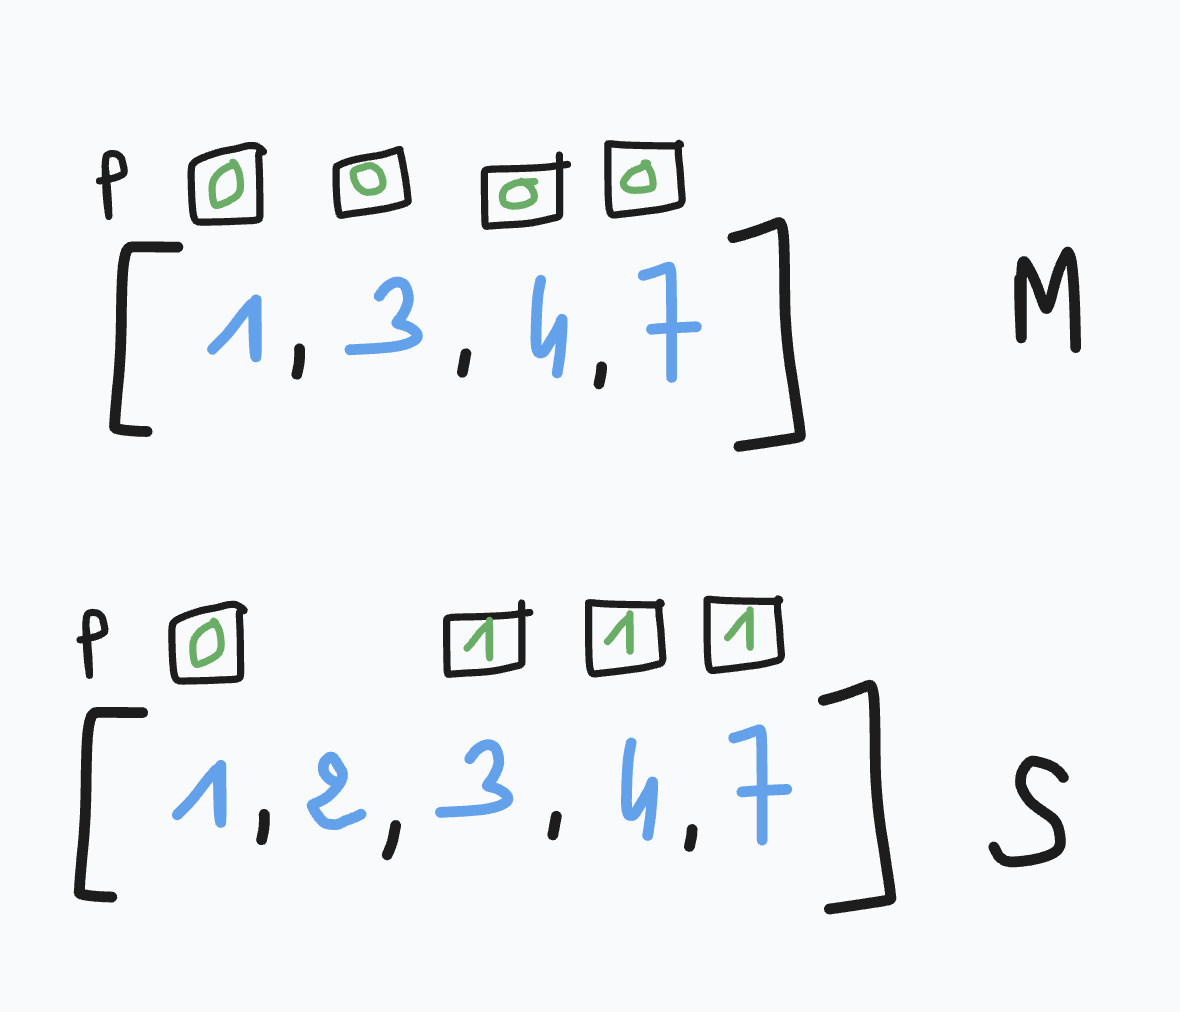
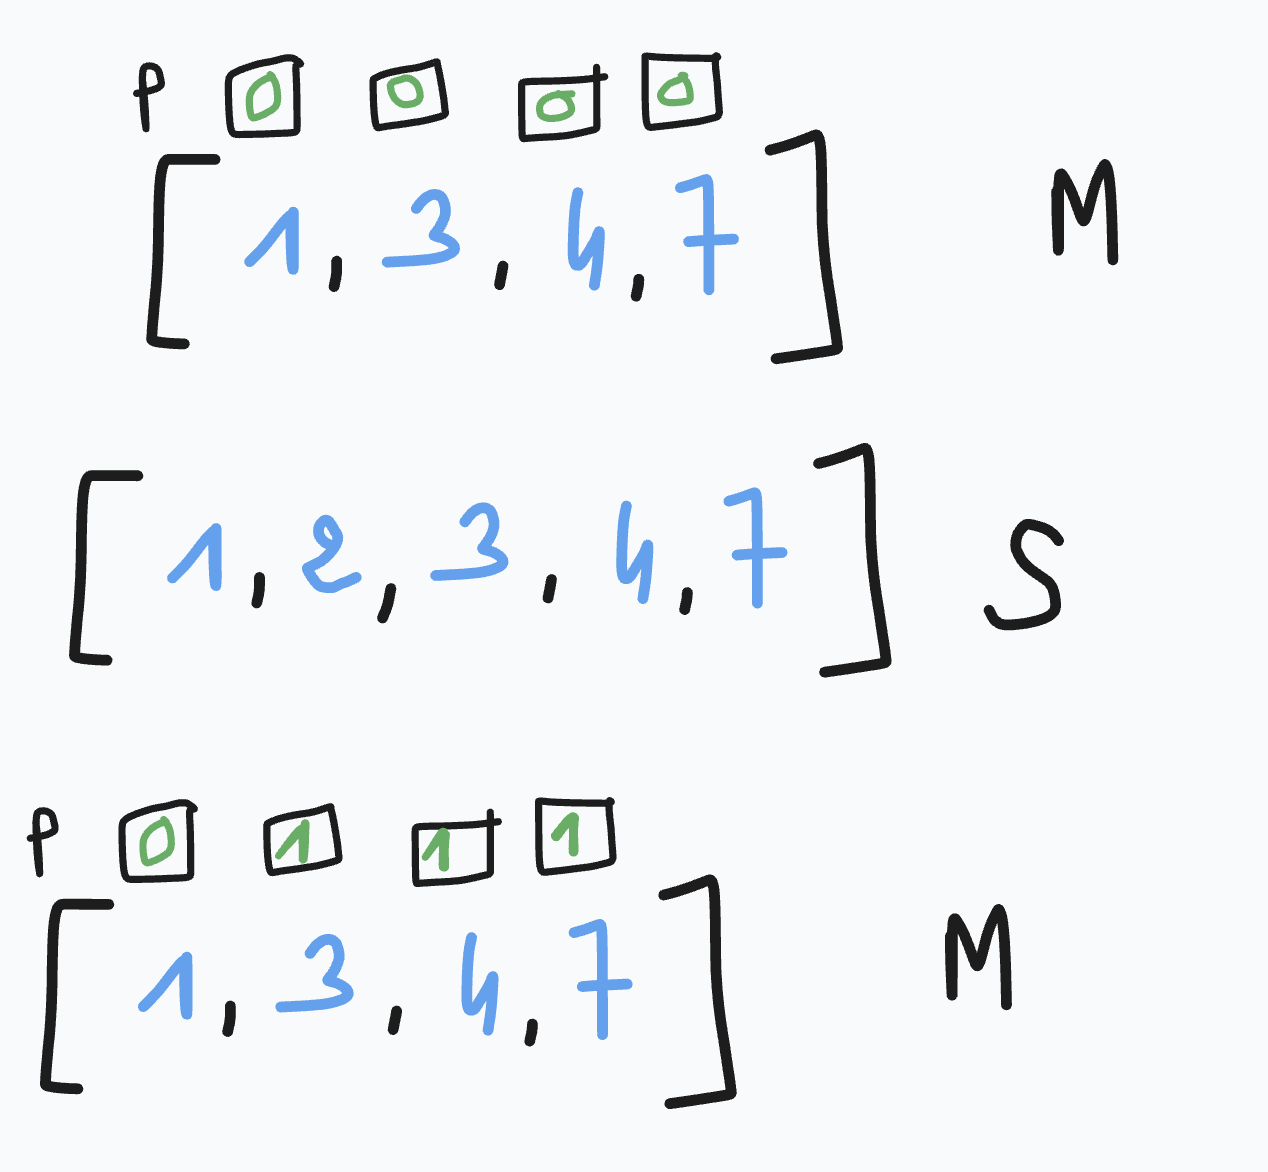
@ changed mapping.png @

diff --git a/README.md b/README.md
@@ -25,5 +25,6 @@ b2 and b3 are collectively called a group, groups are inserted in reverse order 
 [Knuth](https://warwick.ac.uk/fac/sci/dcs/teaching/material-archive/cs341/fj.pdf "Knuth") found a formula which takes the current group k and outputs the main chain start index, inserting an element from group k into S will require at most k comparisons, provided insertion starts at index Tk in the main chain and continues backwards toward the group's end.
 ![knuth's formula](https://github.com/ihiiro/Merge-Insertion/blob/master/formula.png "knuth's formula")
 ### M -> S mapping
-M is the main chain array, while S is the sorted sequence, in the beginning M and S are equivalent, but insertion into S destroys the equivalence. To keep this equivalence, a tracker variable p is used for each element, if insertion happened before the element, its p is incremented by 1, and this p is added to the original index of the element in M, to find its current index in S.
+M is the main chain array while S is the sorted sequence, in the beginning M and S are equivalent, but insertion into S destroys the equivalence. To keep this equivalence, a tracker variable p is used for each element, if insertion happened before the element, its p is incremented by 1 in M, and this p is added to the original index of the element in M, to find its current index in S.
+This is necessary so that binary search happens up to but not including "an".
 ![M->S mapping](https://github.com/ihiiro/Merge-Insertion/blob/master/mapping.png "M->S mapping")
